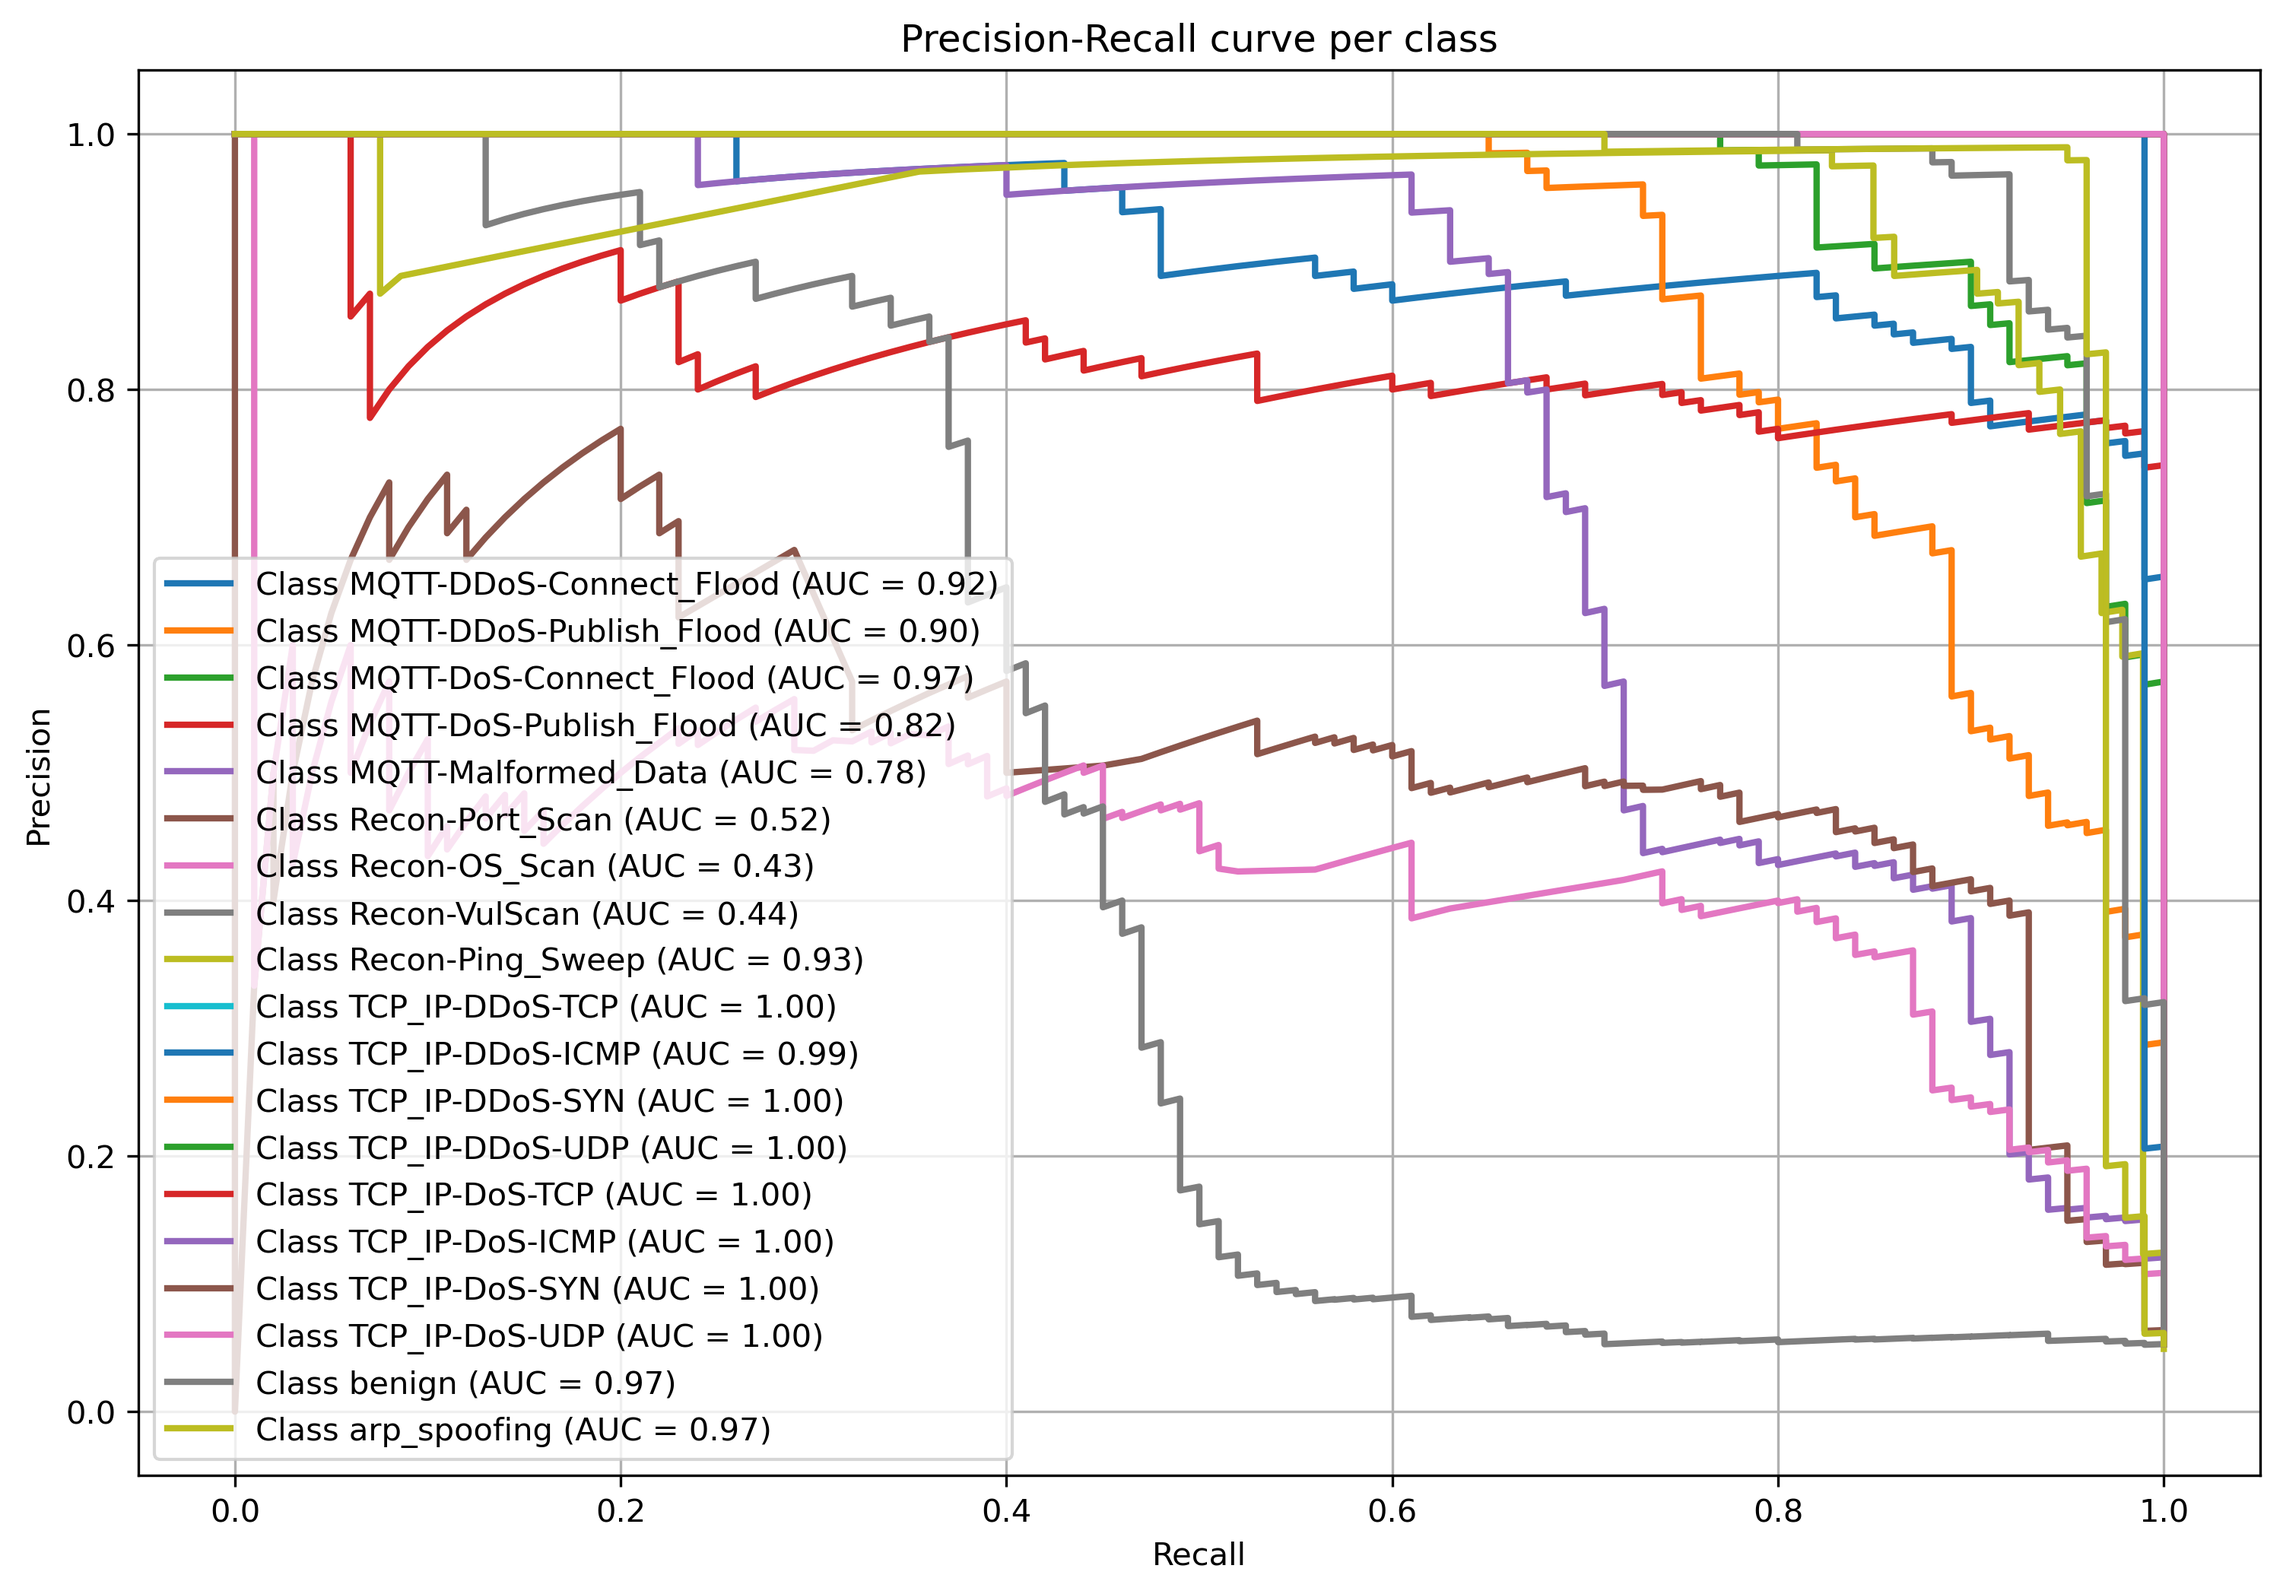
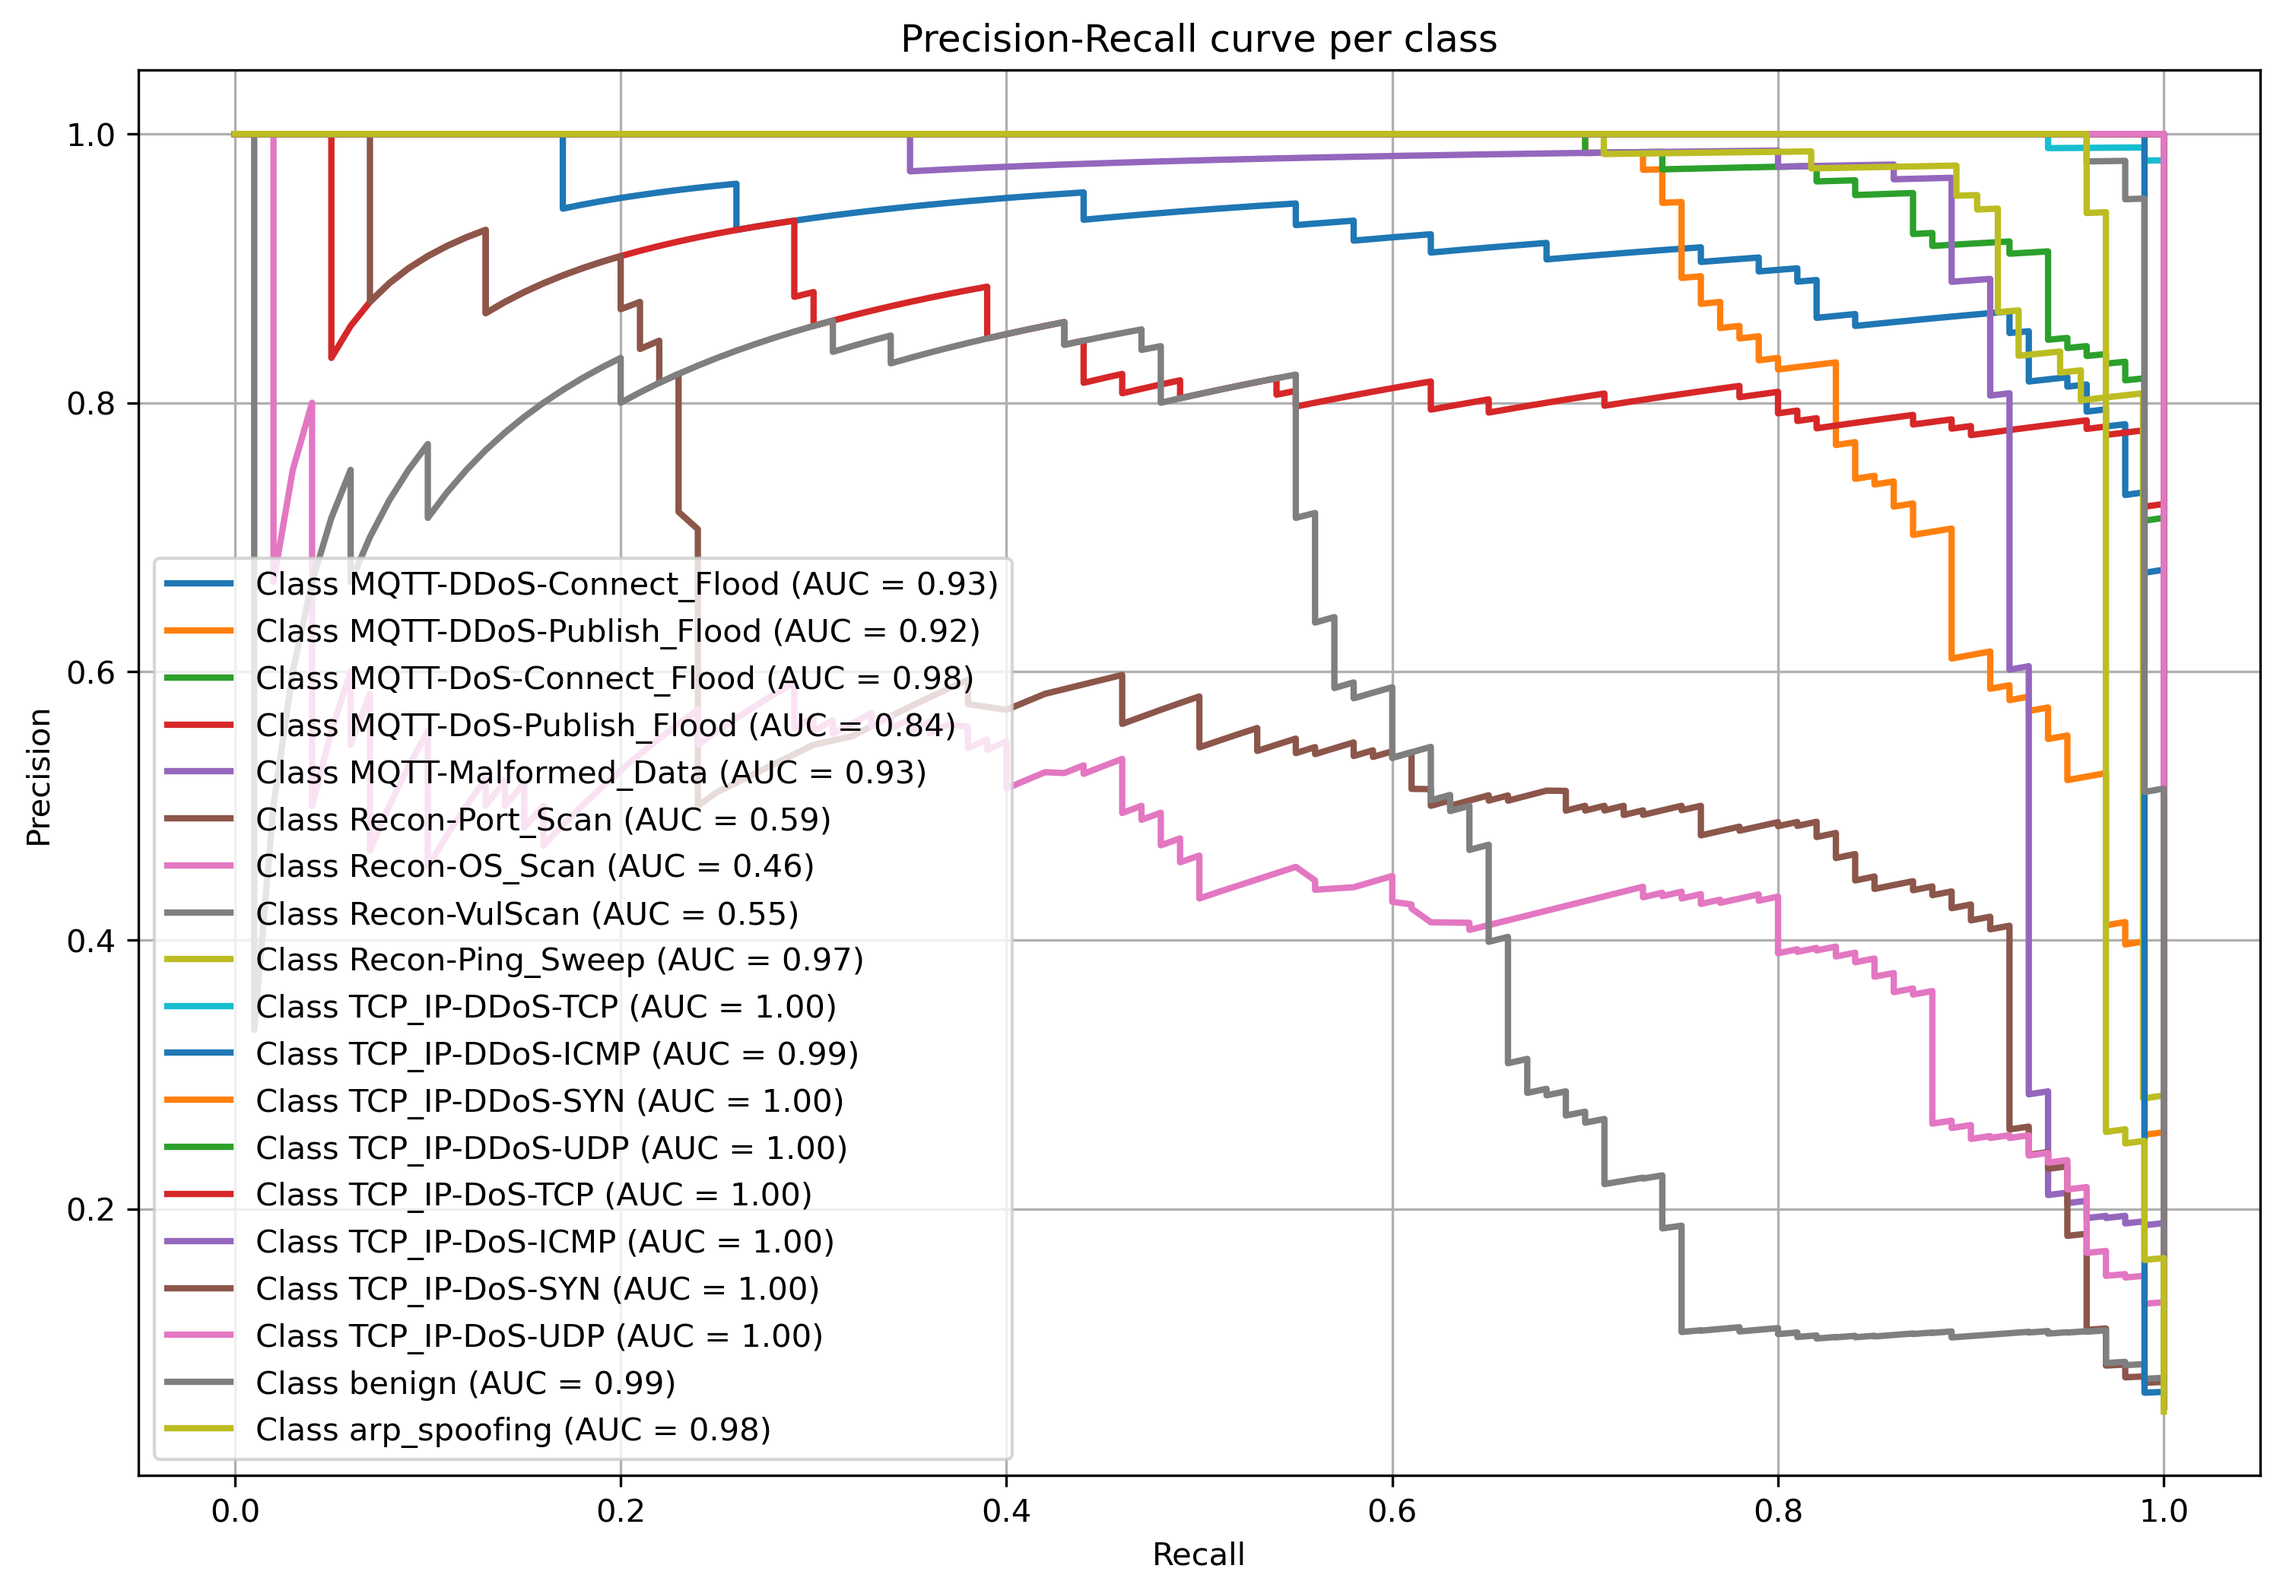
rerun 19 small

diff --git a/LTNtorch/LTN_IoMT/LTN_IoMT_19classes.py b/LTNtorch/LTN_IoMT/LTN_IoMT_19classes.py
@@ -127,8 +127,8 @@ def compute_sat_level(loader):
 
 
 # 加载数据集
-processed_train_file = '/home/zyang44/Github/baseline_cicIOT/CIC_IoMT/19classes/19classes_big_train.csv'
-processed_test_file = '/home/zyang44/Github/baseline_cicIOT/CIC_IoMT/19classes/19classes_big_test.csv'
+processed_train_file = '/home/zyang44/Github/baseline_cicIOT/CIC_IoMT/19classes/19classes_small_train.csv'
+processed_test_file = '/home/zyang44/Github/baseline_cicIOT/CIC_IoMT/19classes/19classes_small_test.csv'
 
 train_data = pd.read_csv(processed_train_file)
 test_data = pd.read_csv(processed_test_file)
@@ -230,7 +230,7 @@ print("Create train and test loader done.")
 print("Start training...")
 optimizer = torch.optim.Adam(P.parameters(), lr=0.0001)
 
-for epoch in range(26):
+for epoch in range(50):
     train_loss = 0.0
 
     for batch_idx, (data, label_L2) in enumerate(train_loader):
@@ -382,13 +382,13 @@ def collect_predictions_and_labels(loader, model):
 
 
 # 训练循环结束后保存模型
-model_save_path = '/home/zyang44/Github/baseline_cicIOT/LTNtorch/LTN_IoMT/model/LTN_19classes_big.pth'
+model_save_path = '/home/zyang44/Github/baseline_cicIOT/LTNtorch/LTN_IoMT/model/LTN_19classes_small.pth'
 torch.save(mlp.state_dict(), model_save_path)
 print(f"Model saved to {model_save_path}")
 
 
 # 在训练循环结束后绘制PR曲线
 all_labels, all_probabilities = collect_predictions_and_labels(test_loader, mlp)
-save_path = "/home/zyang44/Github/baseline_cicIOT/LTNtorch/outputs/LTN_19classes_big_PR_curve.png"  # 设定保存路径和文件名
+save_path = "/home/zyang44/Github/baseline_cicIOT/LTNtorch/outputs/LTN_19classes_small_PR_curve.png"  # 设定保存路径和文件名
 plot_pr_curves(all_labels.numpy(), all_probabilities.numpy(), class_names, save_path)
 
